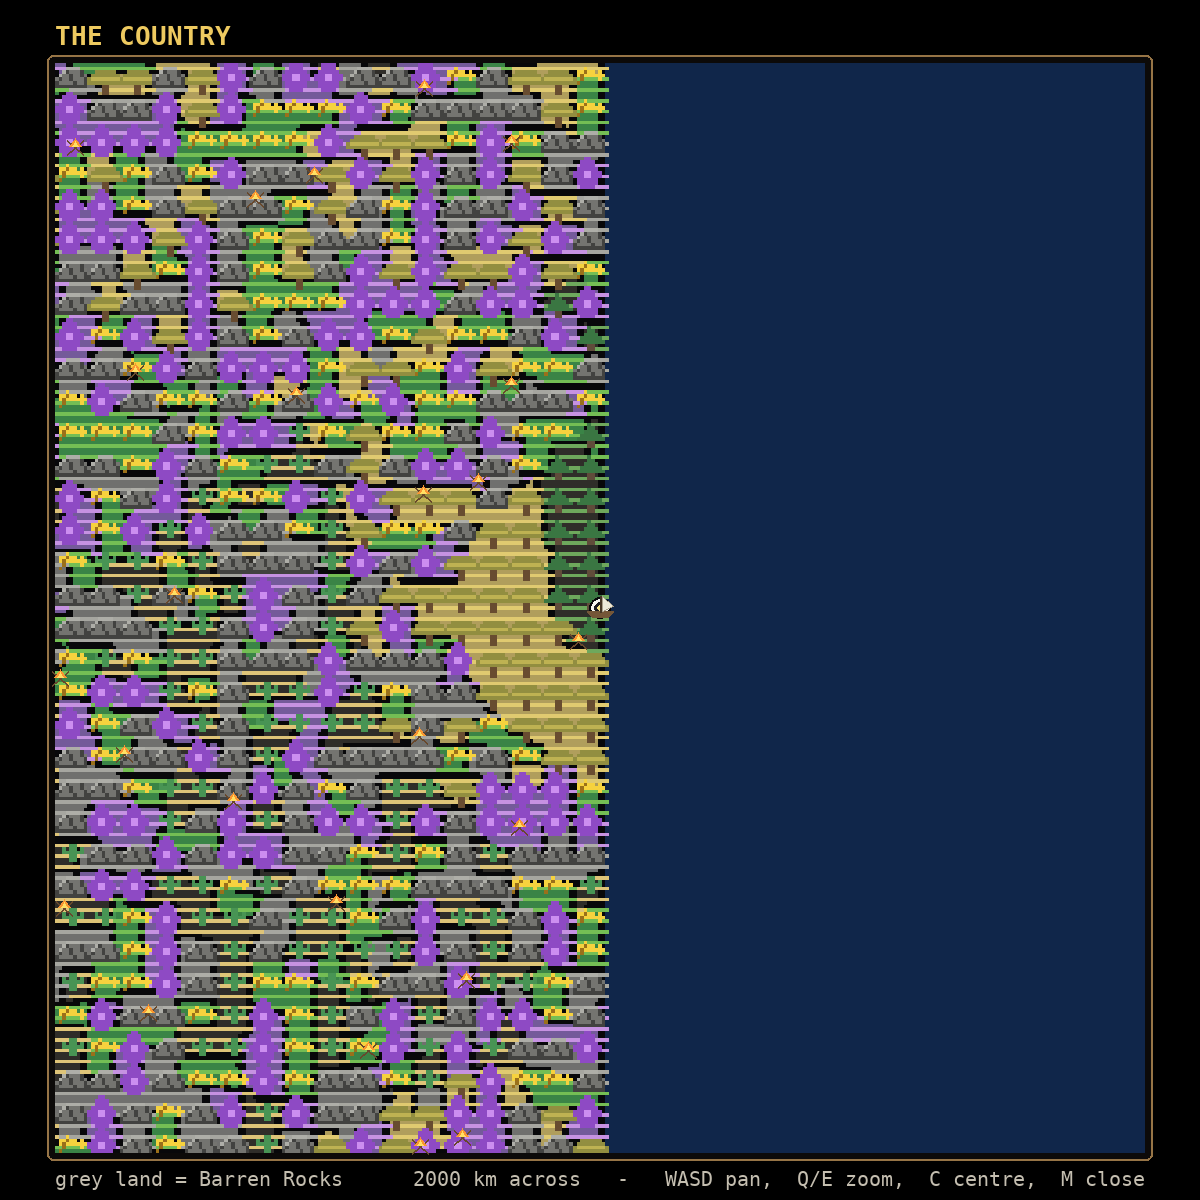
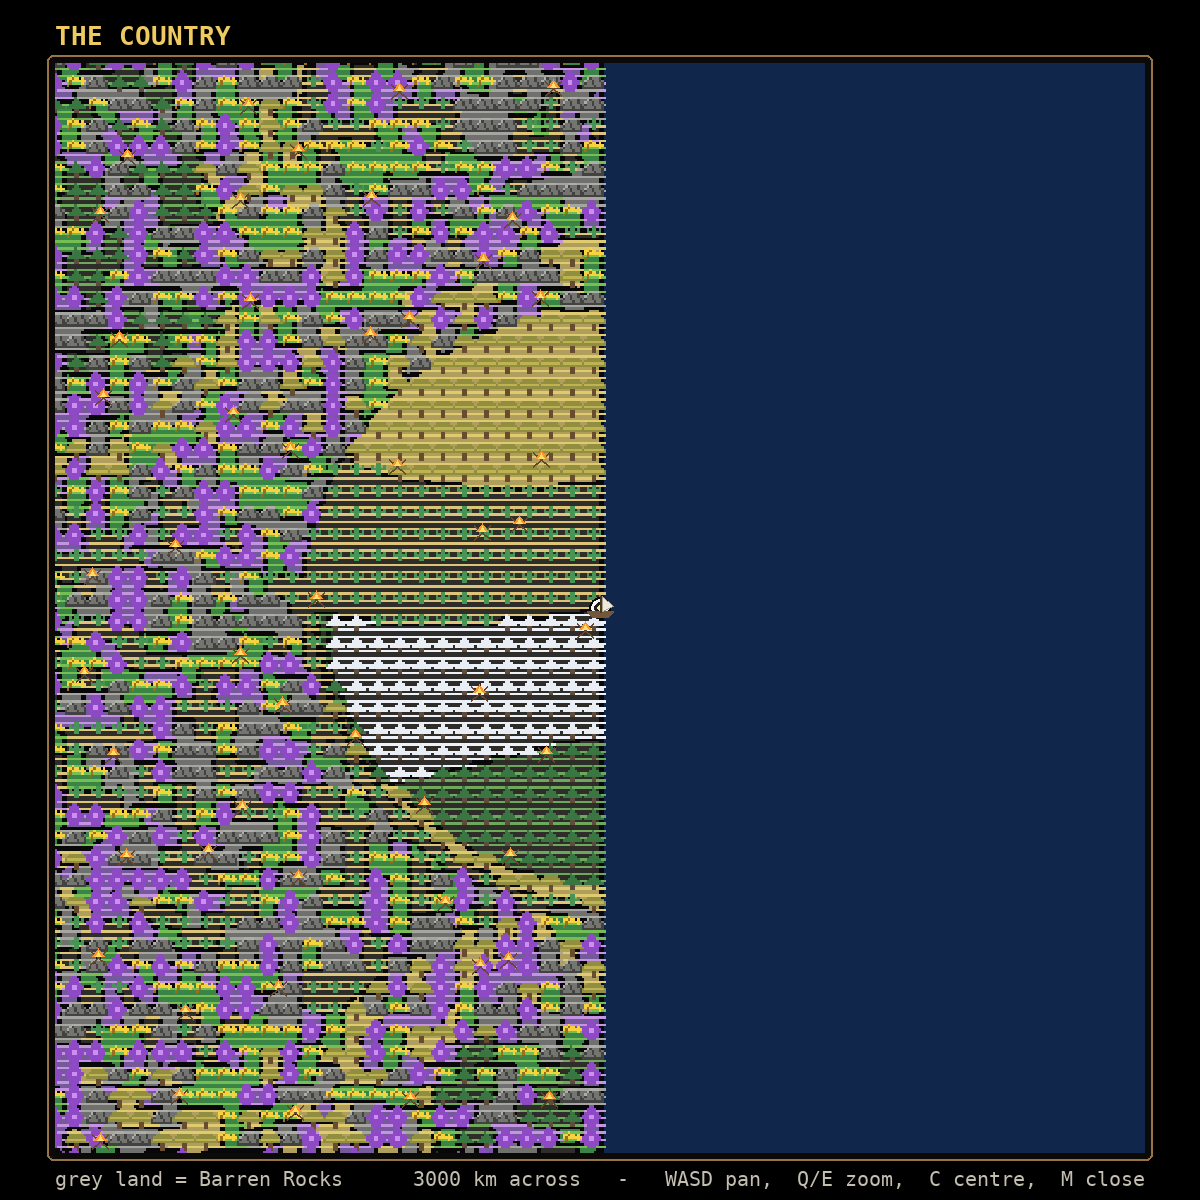
Triple the first ring radius to 165k and give it four large natural bands for snow, forest, savanna, and desert; keep Barren Rocks, Tropics, and Flower Flats in the second ring.

diff --git a/biomes.py b/biomes.py
@@ -47,8 +47,8 @@ BIOMES = {
 # THE RINGS. The first ring around the ship is the country the game already
 # had. Past its edge the ground turns to Barren Rocks; the further out you go,
 # the more of that hard country there is.
-RING1_RADIUS = 55000.0
-RING2_RADIUS = 110000.0
+RING1_RADIUS = 165000.0
+RING2_RADIUS = 330000.0
 _SPAWN = [0.0, 0.0]
 _SEED = [20240501]
 _BARREN_DARK = rich((88, 88, 86))
@@ -70,6 +70,38 @@ def set_spawn(x: float, y: float) -> None:
 
 def set_seed(seed: int) -> None:
     _SEED[0] = int(seed)
+
+
+def _first_ring_override(x, y, t, h):
+    """Guarantee the four first-tier biomes inside the enlarged first ring.
+
+    The first ring is now three times as wide.  A wavy north-south band
+    division puts snow, forest, savanna and desert in large natural regions
+    around the ship instead of leaving the spawn climate to decide which one
+    the player ever sees.  Outside the ring the real climate resumes.
+    """
+    xs = np.asarray(x, np.float32)
+    ys = np.asarray(y, np.float32)
+    d = np.hypot(xs - _SPAWN[0], ys - _SPAWN[1])
+    if bool(np.all(d >= RING1_RADIUS)):
+        return t, h
+    # wavy bands, not ruler-straight latitude lines
+    warp = (12000.0 * np.sin(xs * 0.000017 + ys * 0.000011)
+            + 4500.0 * np.sin(ys * 0.000031 - xs * 0.000007))
+    band = np.floor((ys - _SPAWN[1] + warp) / (RING1_RADIUS * 0.5)).astype(np.int32) % 4
+    target_t = np.array((0.15, 0.44, 0.60, 0.85), np.float32)[band]
+    target_h = np.array((0.55, 0.66, 0.45, 0.20), np.float32)[band]
+    # fade into the real climate at the ring edge
+    edge = np.clip((d - RING1_RADIUS * 0.88) / (RING1_RADIUS * 0.12), 0.0, 1.0)
+    w = (1.0 - edge * edge * (3.0 - 2.0 * edge))
+    out_t = np.asarray(t, np.float32) * (1.0 - w) + target_t * w
+    out_h = np.asarray(h, np.float32) * (1.0 - w) + target_h * w
+    inside = d < RING1_RADIUS
+    out_t = np.where(inside, out_t, t)
+    out_h = np.where(inside, out_h, h)
+    if getattr(out_t, "ndim", 0) == 0:
+        return float(out_t), float(out_h)
+    return out_t, out_h
 
 
 def spawn_point():
@@ -418,7 +450,7 @@ def temperature(x, y, seed: int):
         ys = np.asarray(y, np.float32)
         v = fbm(xs * TEMP_SCALE, ys * TEMP_SCALE, seed + 71, octaves=3)
         t = np.clip((v - 0.5) * 2.15 + 0.5, 0.0, 1.0)
-        return t
+        return _first_ring_override(x, y, t, t)[0]
     key = (float(x), float(y), seed)
     got = _TEMP_MEMO.get(key)
     if got is None:
@@ -427,14 +459,17 @@ def temperature(x, y, seed: int):
         got = float(np.clip((float(v) - 0.5) * 2.15 + 0.5, 0.0, 1.0))
         if len(_TEMP_MEMO) < _MEMO_CAP:
             _TEMP_MEMO[key] = got
-    return got
+    return _first_ring_override(x, y, got, got)[0]
 
 
 def humidity(x, y, seed: int):
     if isinstance(x, np.ndarray) or isinstance(y, np.ndarray):
-        v = fbm(np.asarray(x, np.float32) * HUM_SCALE + 1731.0,
-                np.asarray(y, np.float32) * HUM_SCALE - 921.0, seed + 29, octaves=2)
-        return np.clip((v - 0.5) * 1.9 + 0.5, 0.0, 1.0)
+        xs = np.asarray(x, np.float32)
+        ys = np.asarray(y, np.float32)
+        v = fbm(xs * HUM_SCALE + 1731.0, ys * HUM_SCALE - 921.0,
+                seed + 29, octaves=2)
+        h = np.clip((v - 0.5) * 1.9 + 0.5, 0.0, 1.0)
+        return _first_ring_override(x, y, h, h)[1]
     key = (float(x), float(y), seed)
     got = _HUM_MEMO.get(key)
     if got is None:
@@ -443,7 +478,7 @@ def humidity(x, y, seed: int):
         got = float(np.clip((float(v) - 0.5) * 1.9 + 0.5, 0.0, 1.0))
         if len(_HUM_MEMO) < _MEMO_CAP:
             _HUM_MEMO[key] = got
-    return got
+    return _first_ring_override(x, y, got, got)[1]
 
 
 def _cell(t, h):
